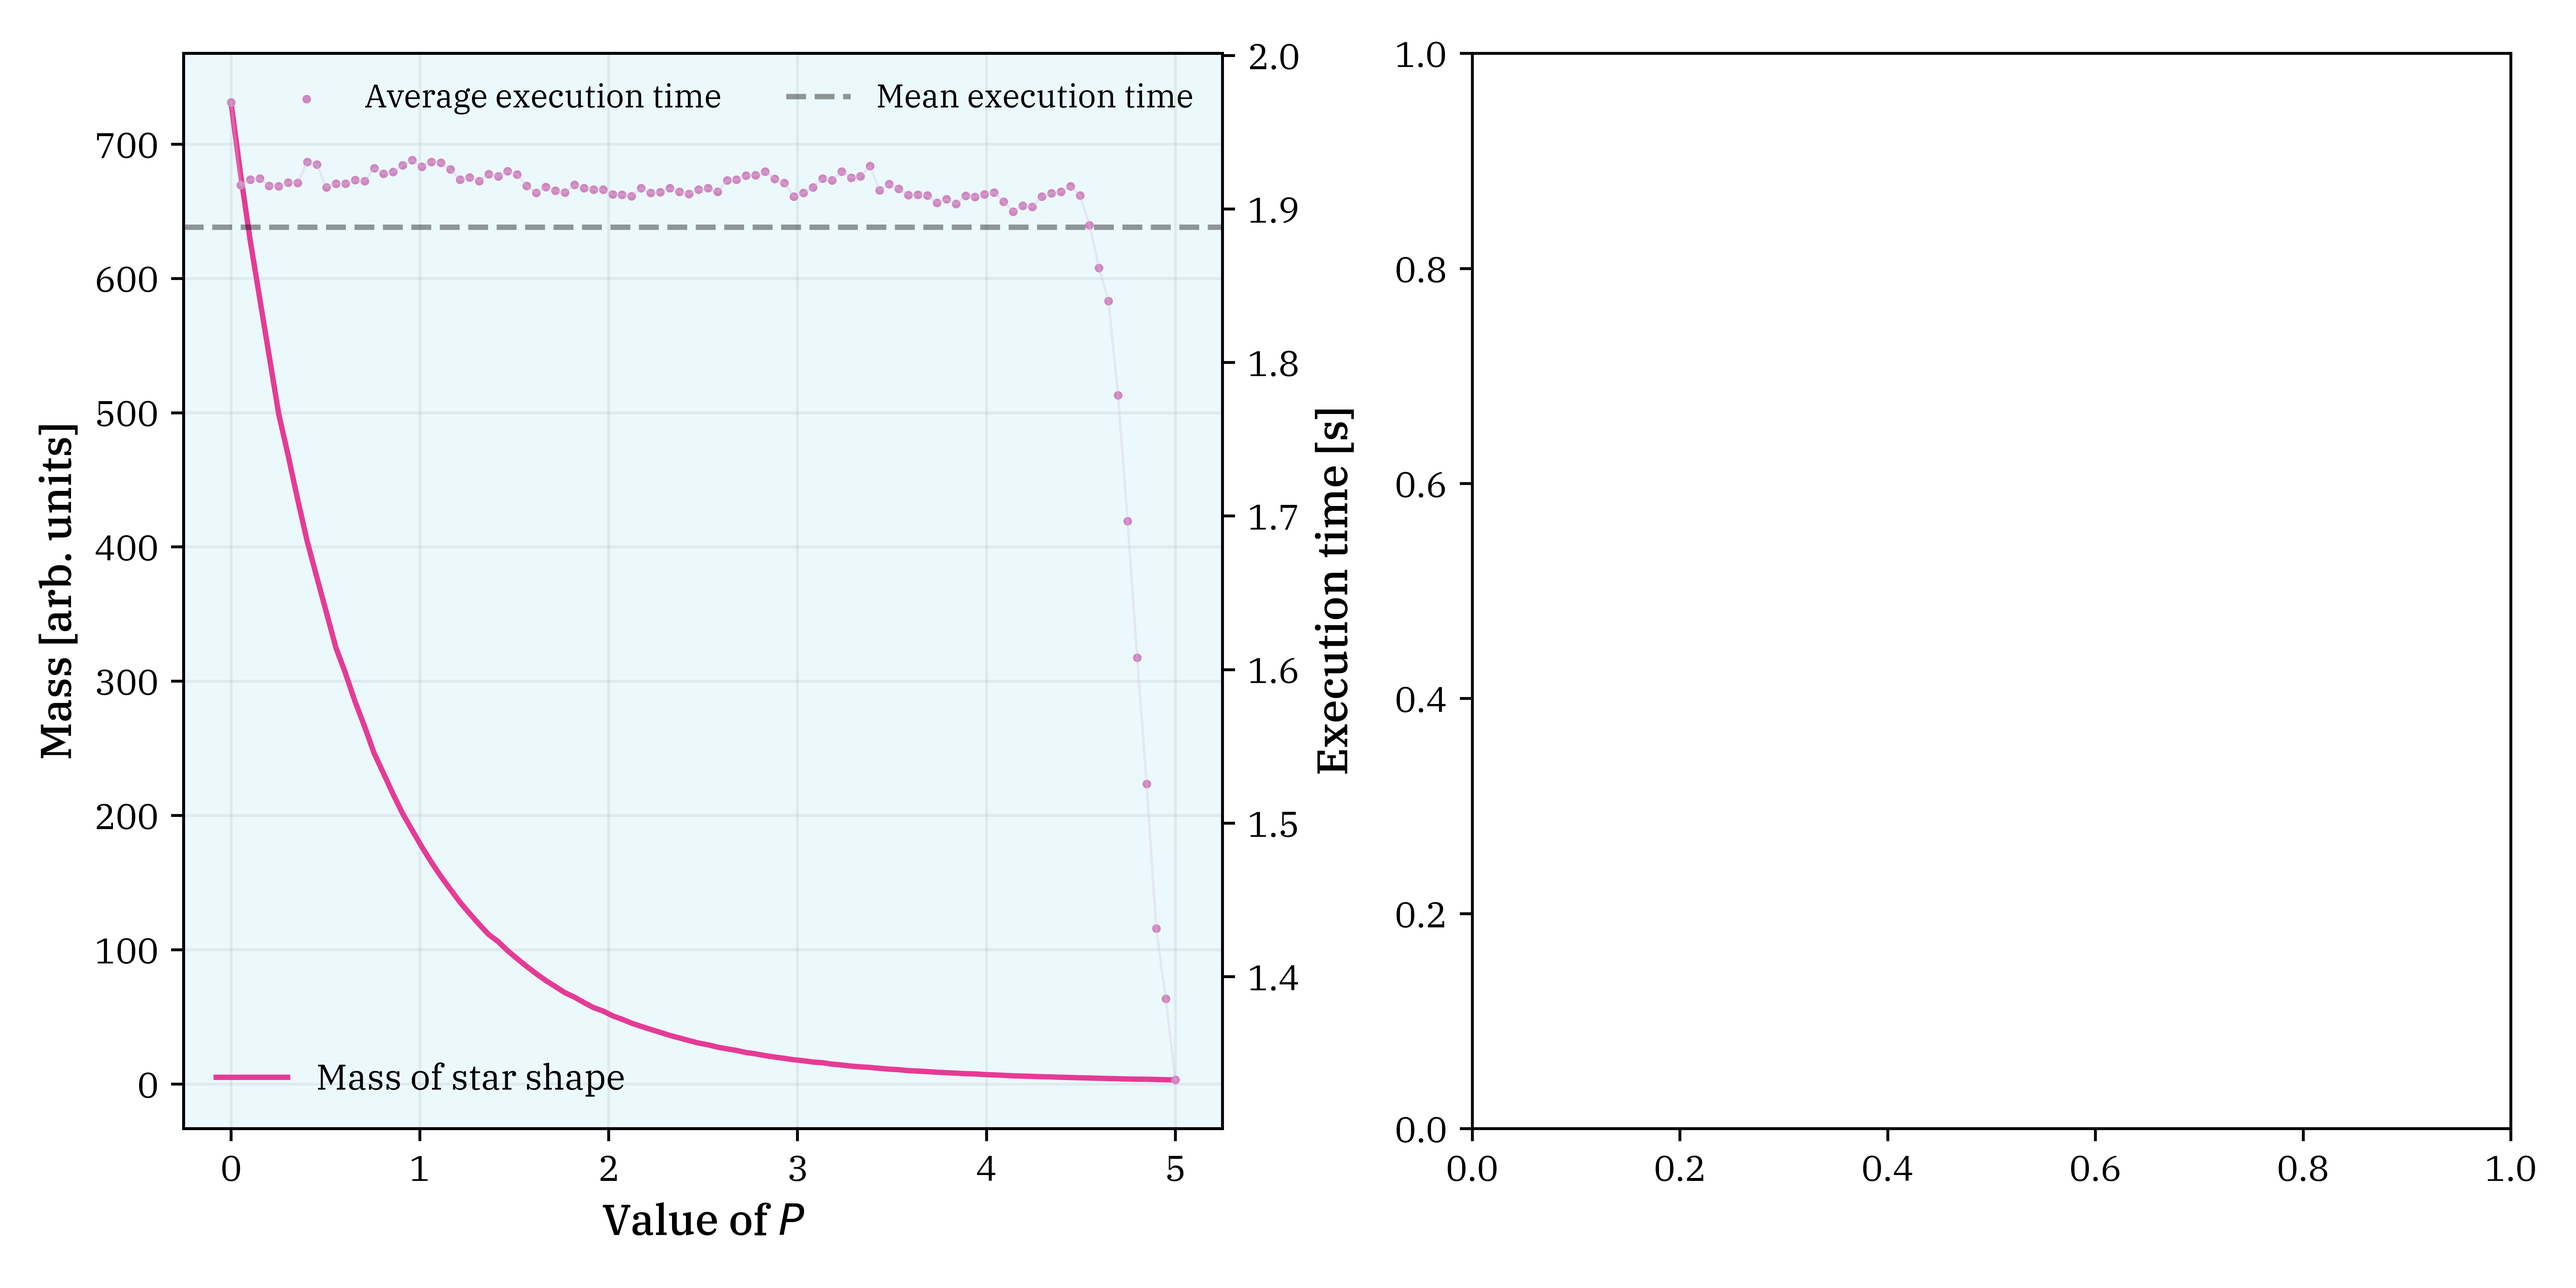
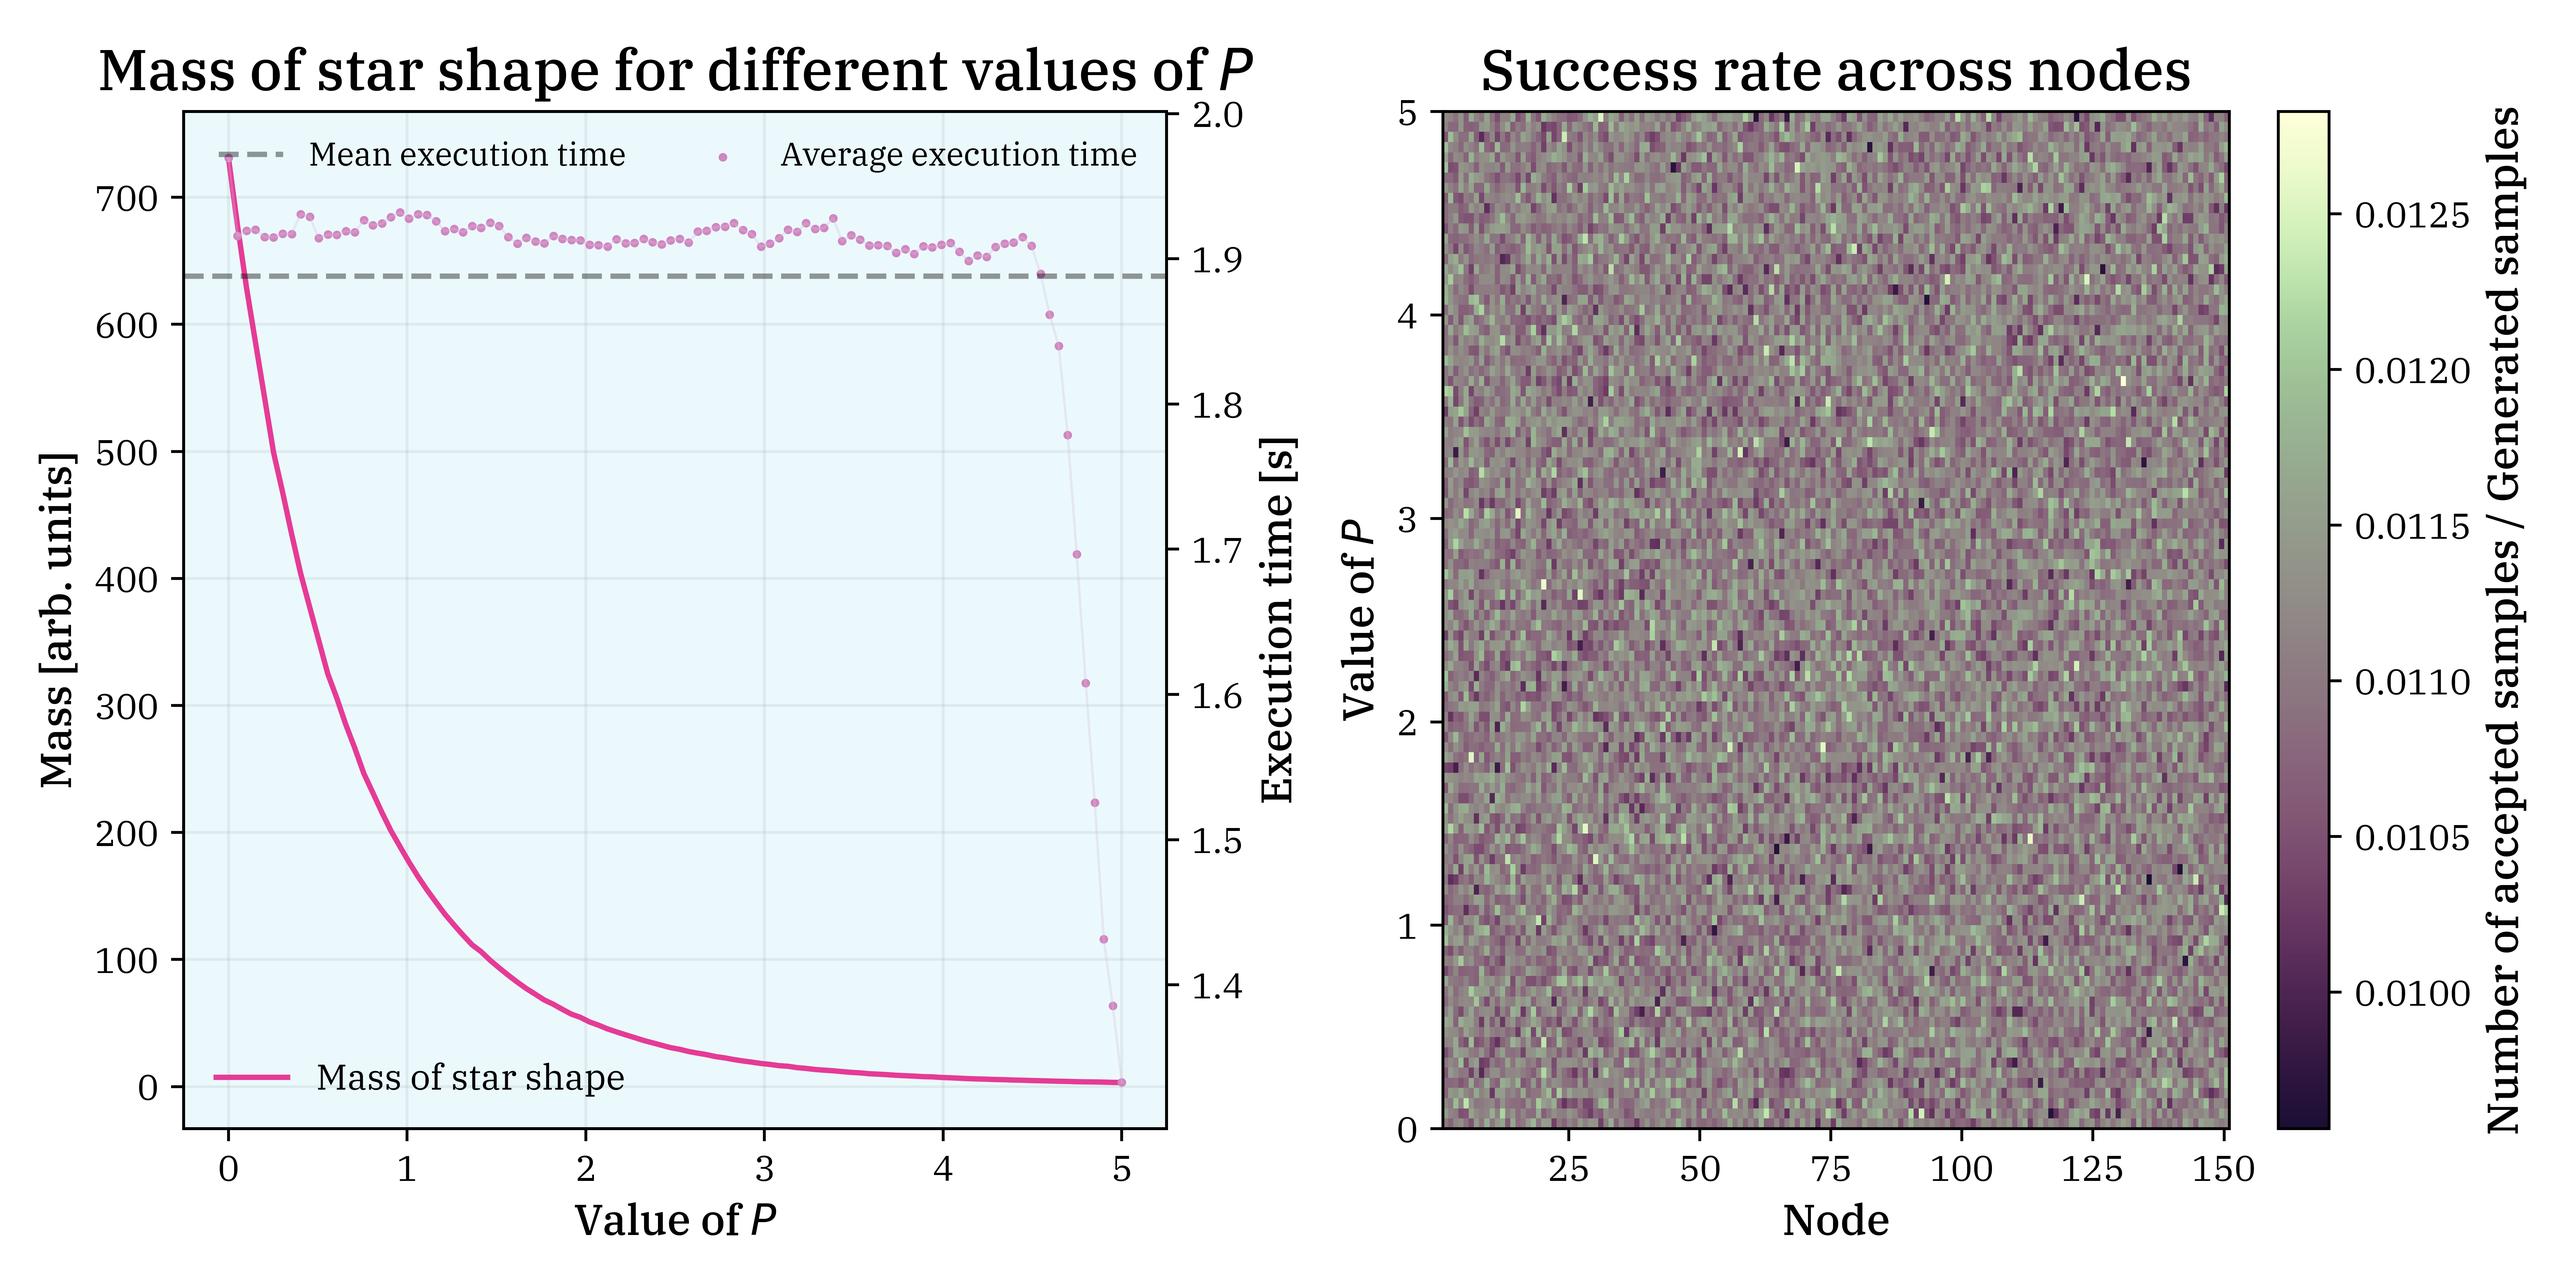
feat: :art: add radial density mass plots

diff --git a/StarShapes/mass_radial.py b/StarShapes/mass_radial.py
@@ -108,7 +108,7 @@ cbar = fig.colorbar(sm, ax=ax[1])
 cbar.set_label("Execution time [s]")
 
 ax[1].imshow(t_exec_dispersion, extent=[nodes[0], nodes[-1], P_range[0], P_range[-1]], aspect="auto", origin="lower", cmap=cm_1, norm=norm)
-ax[1].set_xlabel("Number of nodes")
+ax[1].set_xlabel("Node")
 ax[1].set_ylabel("Value of $P$")
 ax[1].set_title("Distribution of execution time across nodes")
 
@@ -125,9 +125,9 @@ t_avg = np.average(t_exec_dispersion, axis=1)
 ax_add = ax[0].twinx()
 
 ax[0].plot(P_range, values, color=colors[4], label="Mass of star shape")
-ax_add.scatter(P_range, t_avg, color=colors[2], label="Average execution time", s=2)
 ax_add.plot(P_range, t_avg, color=colors[0], lw=0.7, alpha=0.3)
 ax_add.axhline(np.mean(t_avg), color="k", ls="--", label="Mean execution time", alpha=0.4)
+ax_add.scatter(P_range, t_avg, color=colors[2], label="Average execution time", s=2)
 
 
 ax[0].set_facecolor("#ebf9fc")
@@ -137,6 +137,22 @@ ax_add.set_ylabel("Execution time [s]")
 ax[0].set_ylabel("Mass [arb. units]")
 ax[0].legend(loc="lower left", frameon=False)
 ax_add.legend(loc="upper right", frameon=False, ncols=2, fontsize=9)
+ax[0].set_title("Mass of star shape for different values of $P$")
+
+# Plot 2: Success rate per node
+cm_2 = pl.scientific.sequential.Tokyo_20.mpl_colormap
+sr = result_dispersion / N_dispersion
+
+norm = mpl.colors.Normalize(vmin=sr.min(), vmax=sr.max())
+sm = plt.cm.ScalarMappable(cmap=cm_2, norm=norm)
+cbar = fig.colorbar(sm, ax=ax[1])
+cbar.set_label("Number of accepted samples / Generated samples")
+
+ax[1].imshow(sr, extent=[nodes[0], nodes[-1], P_range[0], P_range[-1]], aspect="auto", origin="lower", cmap=cm_2, norm=norm)
+ax[1].set_xlabel("Node")
+ax[1].set_ylabel("Value of $P$")
+ax[1].set_title("Success rate across nodes")
+
 
 plt.tight_layout()
 plt.savefig("./StarShapes/Images/mass_radial.png", dpi=700)
